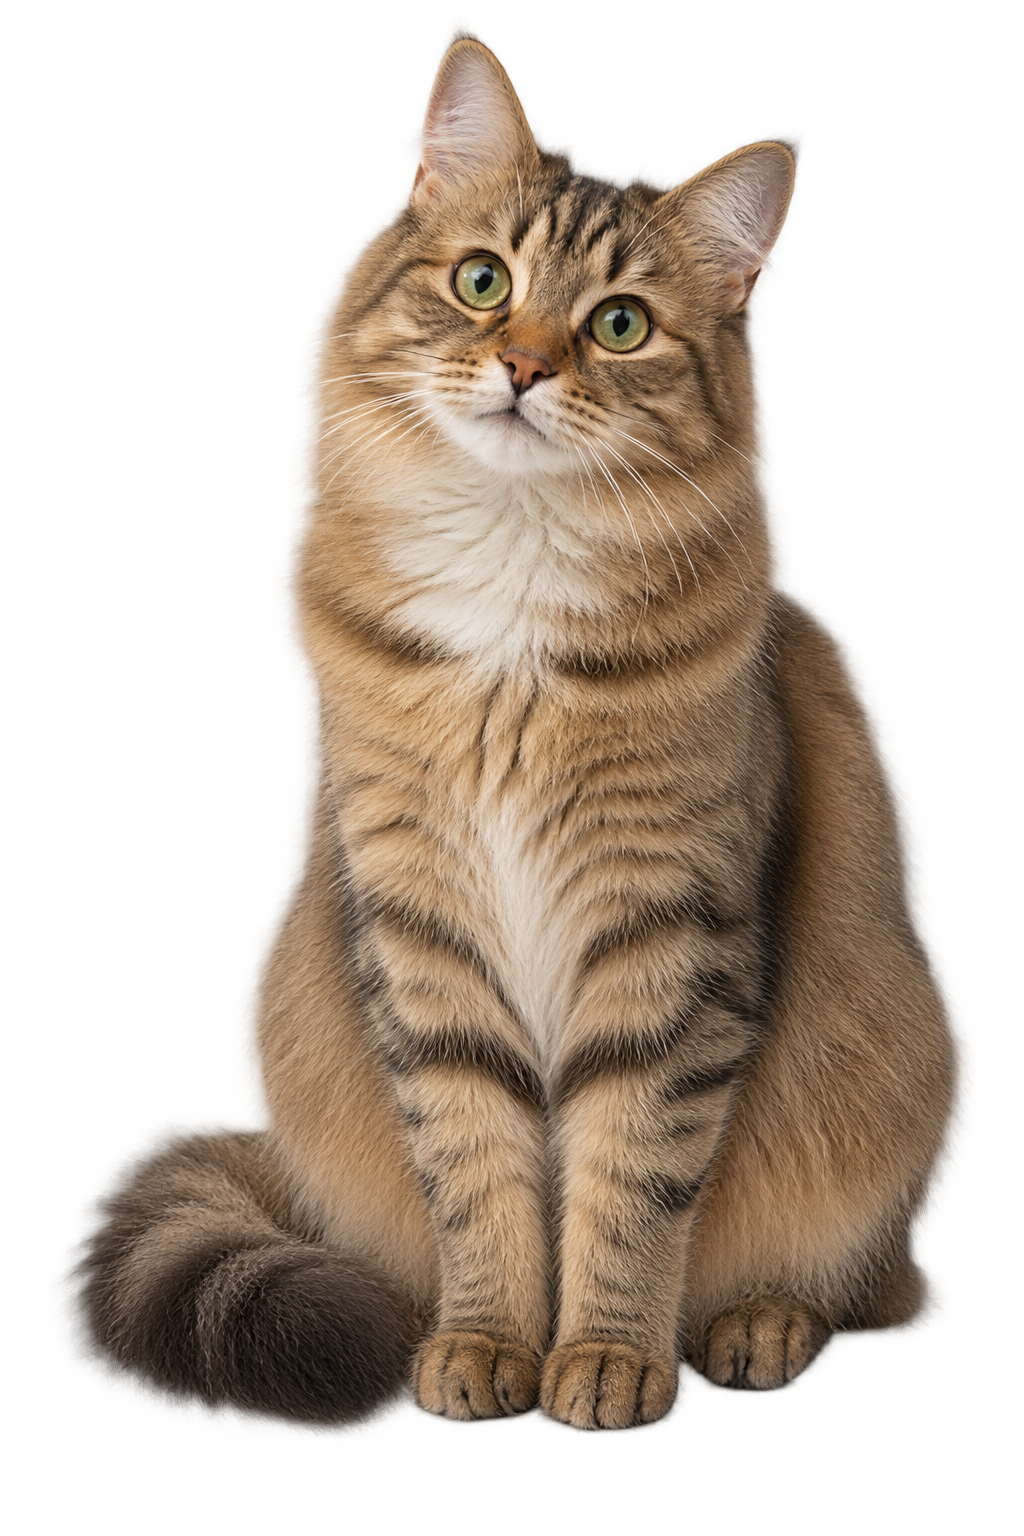
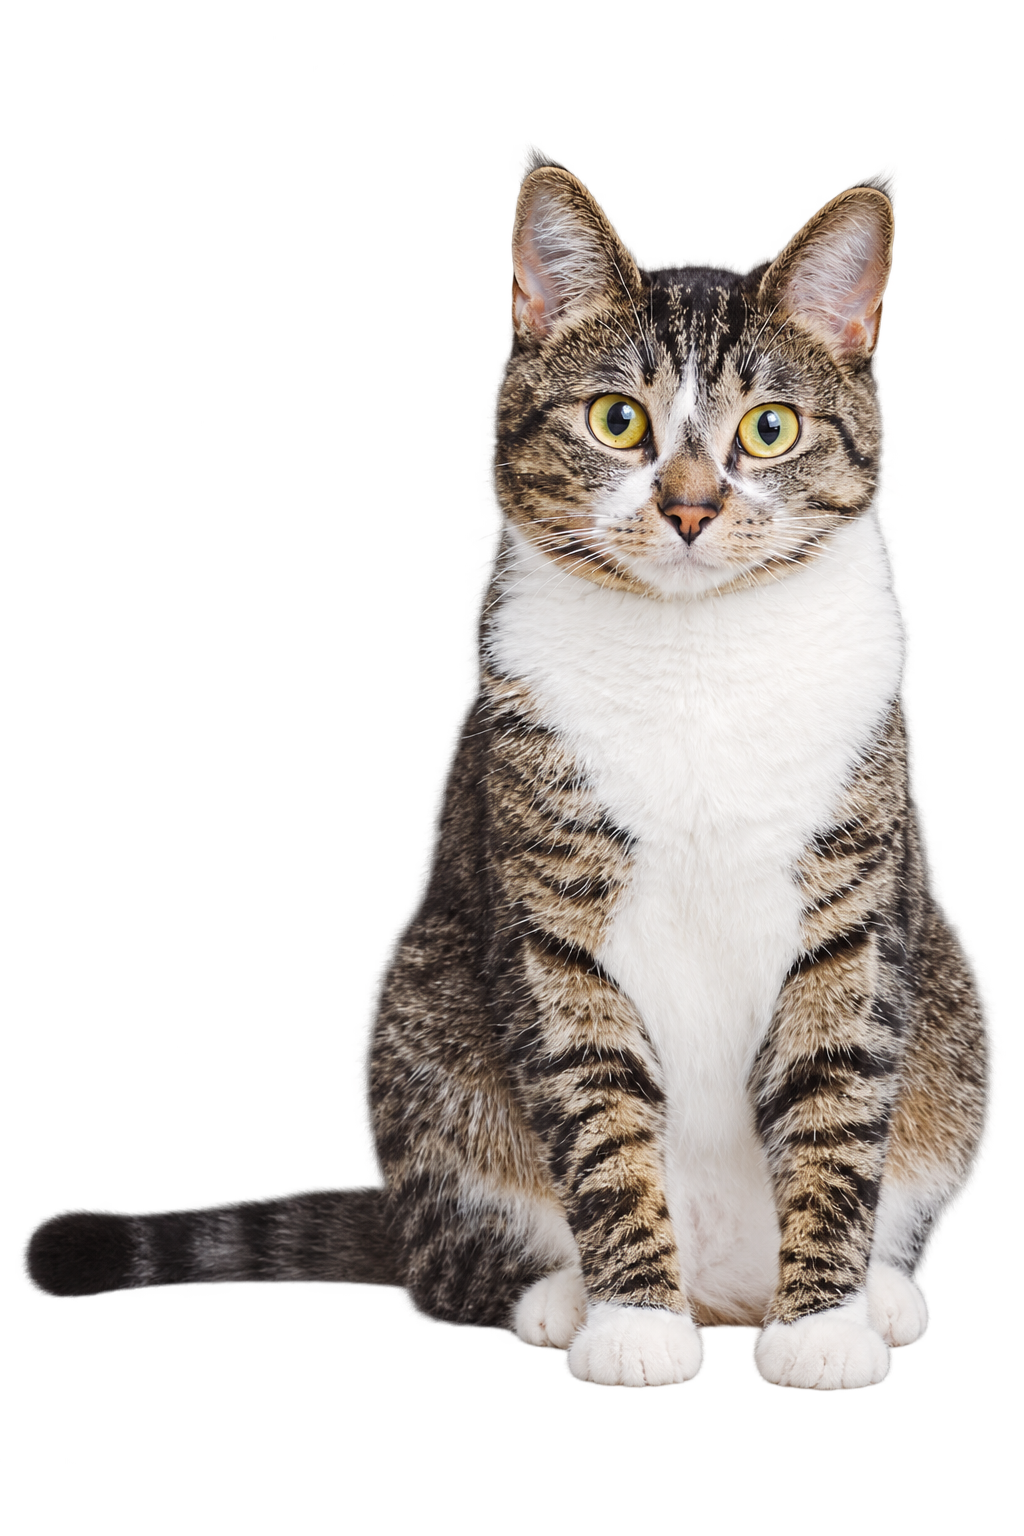
Refresh Pawtion branding and pet imagery

diff --git a/index.html b/index.html
@@ -7,13 +7,13 @@
     <title>Pawtion — อาหารที่พอดีสำหรับเขา</title>
     <link rel="preconnect" href="https://fonts.googleapis.com" />
     <link rel="preconnect" href="https://fonts.gstatic.com" crossorigin />
-    <link href="https://fonts.googleapis.com/css2?family=DM+Sans:wght@400;500;600;700&family=Noto+Sans+Thai:wght@400;500;600;700&display=swap" rel="stylesheet" />
+    <link href="https://fonts.googleapis.com/css2?family=DM+Sans:wght@400;500;600;700&family=Fredoka:wght@500;600;700&family=Noto+Sans+Thai:wght@400;500;600;700&display=swap" rel="stylesheet" />
     <link rel="stylesheet" href="styles.css?v=8" />
   </head>
   <body>
     <main>
       <nav class="nav shell" aria-label="เมนูหลัก">
-        <a class="brand" href="#top" aria-label="Pawtion home"><svg class="brand-paw" viewBox="0 0 24 24" aria-hidden="true"><ellipse cx="4.5" cy="9" rx="2.5" ry="3.3" transform="rotate(-25 4.5 9)"/><ellipse cx="9" cy="5" rx="2.5" ry="3.3"/><ellipse cx="15" cy="5" rx="2.5" ry="3.3"/><ellipse cx="19.5" cy="9" rx="2.5" ry="3.3" transform="rotate(25 19.5 9)"/><path d="M12 10c-2.8 0-4 2.6-6.2 5.1C3.2 18 5 22 8.2 21c2.6-.8 5-.8 7.6 0 3.2 1 5-3 2.4-5.9C16 12.6 14.8 10 12 10Z"/></svg>Pawtion</a>
+        <a class="brand" href="#top" aria-label="Pawtion home"><img class="brand-paw-logo" src="assets/pawtion-paw.png" alt="" /><img class="brand-logo" src="assets/pawtion-logo.png" alt="Pawtion" /></a>
         <div class="primary-nav" aria-label="ส่วนต่าง ๆ ของเว็บไซต์">
           <a class="nav-link active" href="#top" data-page="home" data-i18n="navHome" aria-current="page">หน้าหลัก</a>
           <a class="nav-link" href="#calculator" data-page="calculator" data-i18n="navCalc">คำนวณอาหาร</a>
@@ -21,7 +21,7 @@
         </div>
         <div class="nav-actions">
           <button id="language-toggle" class="utility-button language-button" type="button" aria-label="Switch to English">
-            <span data-language="th"><span class="language-flag" aria-hidden="true">🇹🇭</span> TH</span><span class="language-divider" aria-hidden="true">/</span><span data-language="en"><span class="language-flag" aria-hidden="true">🇬🇧</span> EN</span>
+            <span data-language="th">TH</span><span class="language-divider" aria-hidden="true">/</span><span data-language="en">EN</span>
           </button>
           <label class="theme-control">
             <span class="sr-only">Color theme</span>
@@ -133,7 +133,7 @@
       </section>
 
     </main>
-    <footer class="shell"><span class="brand"><span class="brand-dot"></span>Pawtion</span><span data-i18n="footer">เพื่อทุกมื้อที่พอดี</span></footer>
+    <footer class="shell"><span class="brand"><img class="brand-paw-logo" src="assets/pawtion-paw.png" alt="" /><img class="brand-logo" src="assets/pawtion-logo.png" alt="Pawtion" /></span><span data-i18n="footer">เพื่อทุกมื้อที่พอดี</span></footer>
     <script src="life-stage.js?v=2"></script>
     <script src="body-condition.js?v=1"></script>
     <script src="nutrition.js?v=2"></script>

diff --git a/styles.css b/styles.css
@@ -41,10 +41,23 @@ body{padding-top:86px}
 .reference-intro>p:last-child{margin:28px 0 0;color:var(--muted);font-size:18px;line-height:1.7}
 .reference-back{display:inline-flex;margin-top:40px}
 @media(max-width:760px){body{padding-top:112px}.nav{width:min(100% - 32px,1120px);height:auto;min-height:112px;flex-wrap:wrap;padding:15px 0}.primary-nav{order:3;width:100%;justify-content:flex-start;overflow-x:auto;padding-top:5px}.primary-nav .nav-link{display:inline-flex;flex:none;padding:8px 11px}#top,#calculator{scroll-margin-top:126px}.reference-page{padding:70px 0 90px}}
-.language-button{min-width:112px}
-.language-button [data-language]{display:inline-flex;align-items:center;gap:3px}
-.language-flag{font-size:13px;line-height:1}
-@media(max-width:650px){.language-button{min-width:106px;padding-inline:7px}.language-flag{font-size:12px}}
+.language-button{min-width:68px}
+.brand{font-family:"Fredoka","DM Sans",sans-serif;font-size:22px;font-weight:700;letter-spacing:-.06em;background:linear-gradient(165deg,#fff 0%,#bce9ff 18%,#6d7c88 34%,#f9e8ba 48%,#f7fdff 61%,#7e909e 79%,#fff 100%);background-clip:text;-webkit-background-clip:text;color:transparent;-webkit-text-fill-color:transparent;-webkit-text-stroke:.35px rgba(47,62,74,.68);text-shadow:0 1px 0 #d7f3ff,0 2px 0 #758692,0 4px 7px rgba(11,20,27,.38)}
+.brand-logo{display:block;width:132px;height:auto}
+.brand-paw-logo{display:block;width:34px;height:34px;object-fit:contain}
+.nav .brand{font-size:26px}
+footer .brand{font-size:18px}
+footer .brand-logo{width:100px}
+footer .brand-paw-logo{width:25px;height:25px}
+@media(max-width:650px){.nav .brand{font-size:23px}}
+@media(max-width:650px){.brand-logo{width:116px}.brand-paw-logo{width:30px;height:30px}}
+html[lang="th"] body,html[lang="th"] button,html[lang="th"] input,html[lang="th"] select,html[lang="th"] textarea{font-family:"Noto Sans Thai",sans-serif}
+html[lang="th"] .eyebrow{font-family:"DM Sans",sans-serif}
+.species-card[data-species="cat"] .animal-photo{transform:translate(-18px,64px) scale(1.35);transform-origin:center bottom}
+.species-card:hover[data-species="cat"] .animal-photo{transform:translate(-18px,64px) scale(1.35);transform-origin:center bottom}
+@media(max-width:650px){.language-button{min-width:64px;padding-inline:7px}}
+.nav.shell{width:100%;max-width:none;padding-inline:clamp(24px,6vw,80px)}
+@media(max-width:760px){.nav.shell{width:100%;padding-inline:16px}}
 
 /* Life-stage assessment */
 .field-help{display:block;margin-top:8px;color:var(--muted);font-size:12px;line-height:1.5}

diff --git a/references.html b/references.html
@@ -7,13 +7,13 @@
     <title>Pawtion — References</title>
     <link rel="preconnect" href="https://fonts.googleapis.com" />
     <link rel="preconnect" href="https://fonts.gstatic.com" crossorigin />
-    <link href="https://fonts.googleapis.com/css2?family=DM+Sans:wght@400;500;600;700&family=Noto+Sans+Thai:wght@400;500;600;700&display=swap" rel="stylesheet" />
+    <link href="https://fonts.googleapis.com/css2?family=DM+Sans:wght@400;500;600;700&family=Fredoka:wght@500;600;700&family=Noto+Sans+Thai:wght@400;500;600;700&display=swap" rel="stylesheet" />
     <link rel="stylesheet" href="styles.css?v=8" />
   </head>
   <body>
     <main>
       <nav class="nav shell" aria-label="เมนูหลัก">
-        <a class="brand" href="index.html" aria-label="Pawtion home"><svg class="brand-paw" viewBox="0 0 24 24" aria-hidden="true"><ellipse cx="4.5" cy="9" rx="2.5" ry="3.3" transform="rotate(-25 4.5 9)"/><ellipse cx="9" cy="5" rx="2.5" ry="3.3"/><ellipse cx="15" cy="5" rx="2.5" ry="3.3"/><ellipse cx="19.5" cy="9" rx="2.5" ry="3.3" transform="rotate(25 19.5 9)"/><path d="M12 10c-2.8 0-4 2.6-6.2 5.1C3.2 18 5 22 8.2 21c2.6-.8 5-.8 7.6 0 3.2 1 5-3 2.4-5.9C16 12.6 14.8 10 12 10Z"/></svg>Pawtion</a>
+        <a class="brand" href="index.html" aria-label="Pawtion home"><img class="brand-paw-logo" src="assets/pawtion-paw.png" alt="" /><img class="brand-logo" src="assets/pawtion-logo.png" alt="Pawtion" /></a>
         <div class="primary-nav" aria-label="ส่วนต่าง ๆ ของเว็บไซต์">
           <a class="nav-link" href="index.html#top" data-i18n="navHome">หน้าหลัก</a>
           <a class="nav-link" href="index.html#calculator" data-i18n="navCalc">คำนวณอาหาร</a>
@@ -41,7 +41,7 @@
         <a class="button button-light reference-back" href="index.html" data-i18n-html="back">กลับหน้าหลัก <span>→</span></a>
       </section>
     </main>
-    <footer class="shell"><span class="brand"><span class="brand-dot"></span>Pawtion</span><span data-i18n="footer">เพื่อทุกมื้อที่พอดี</span></footer>
+    <footer class="shell"><span class="brand"><img class="brand-paw-logo" src="assets/pawtion-paw.png" alt="" /><img class="brand-logo" src="assets/pawtion-logo.png" alt="Pawtion" /></span><span data-i18n="footer">เพื่อทุกมื้อที่พอดี</span></footer>
     <script src="references.js?v=6"></script>
   </body>
 </html>
